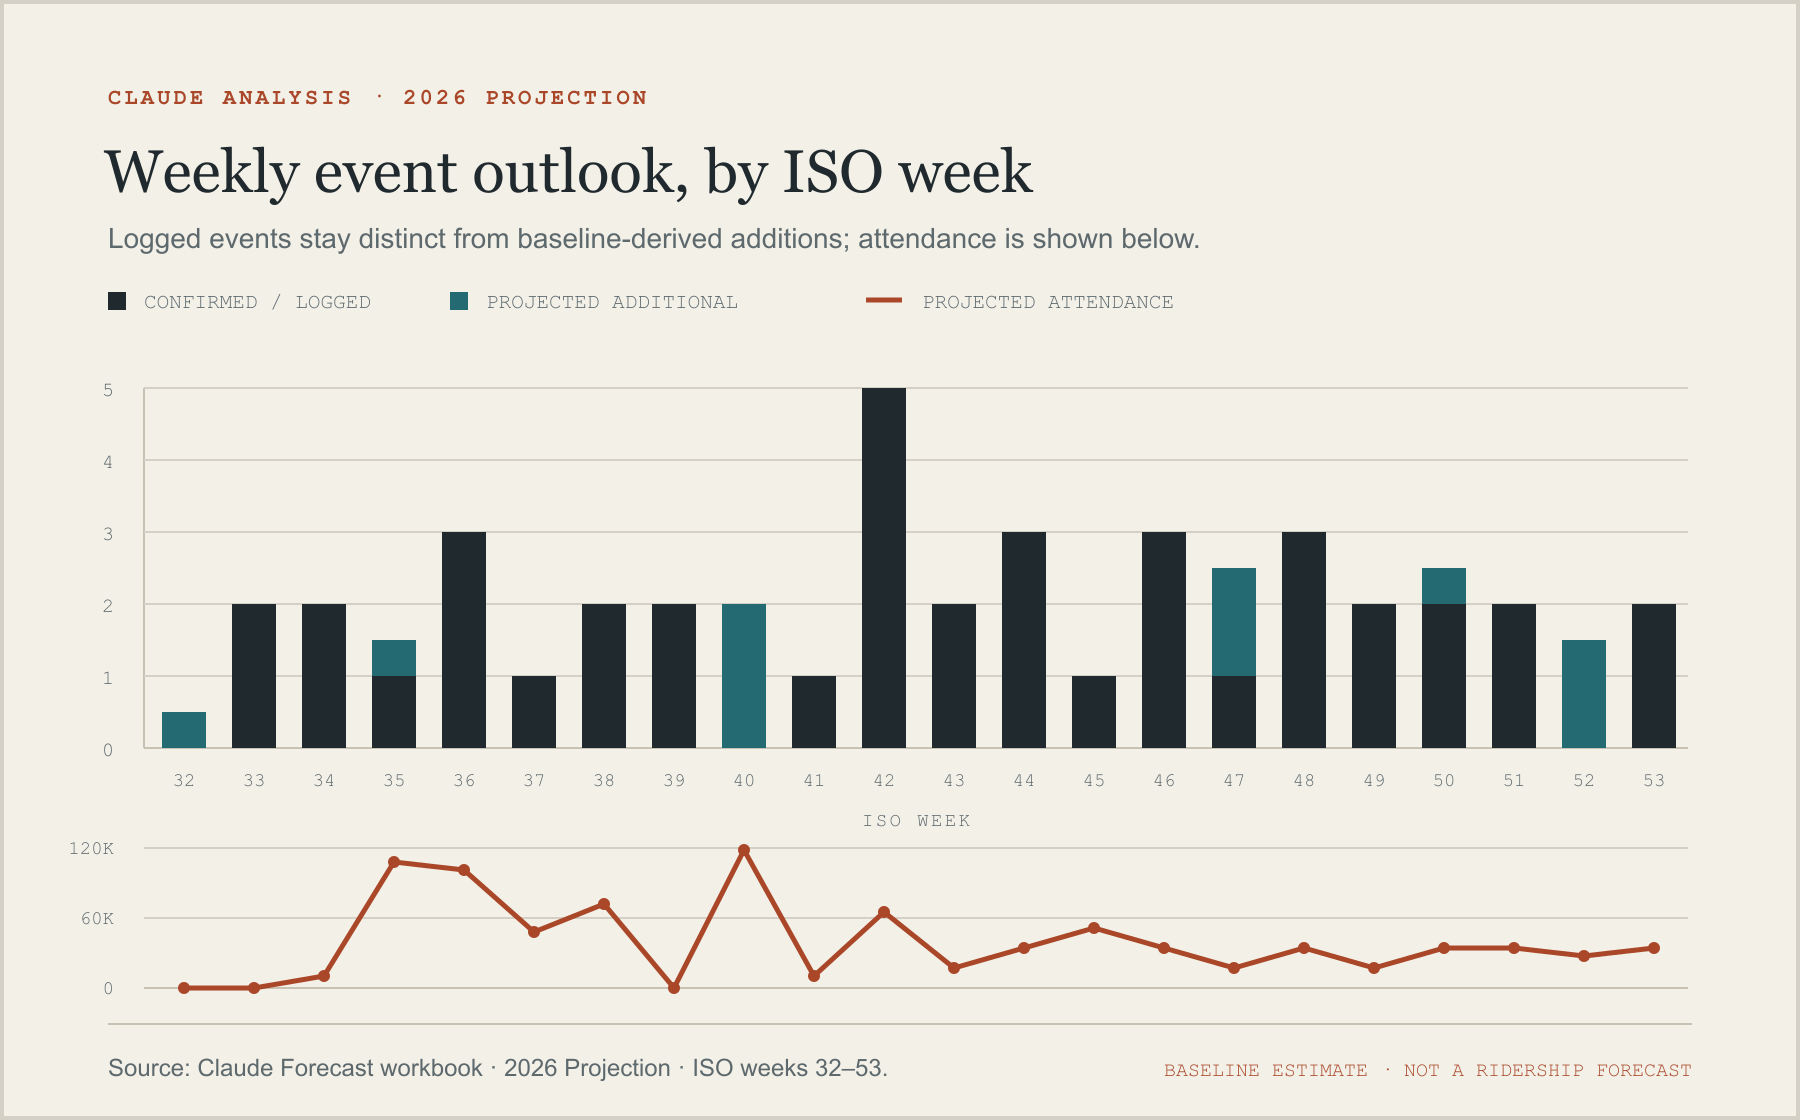
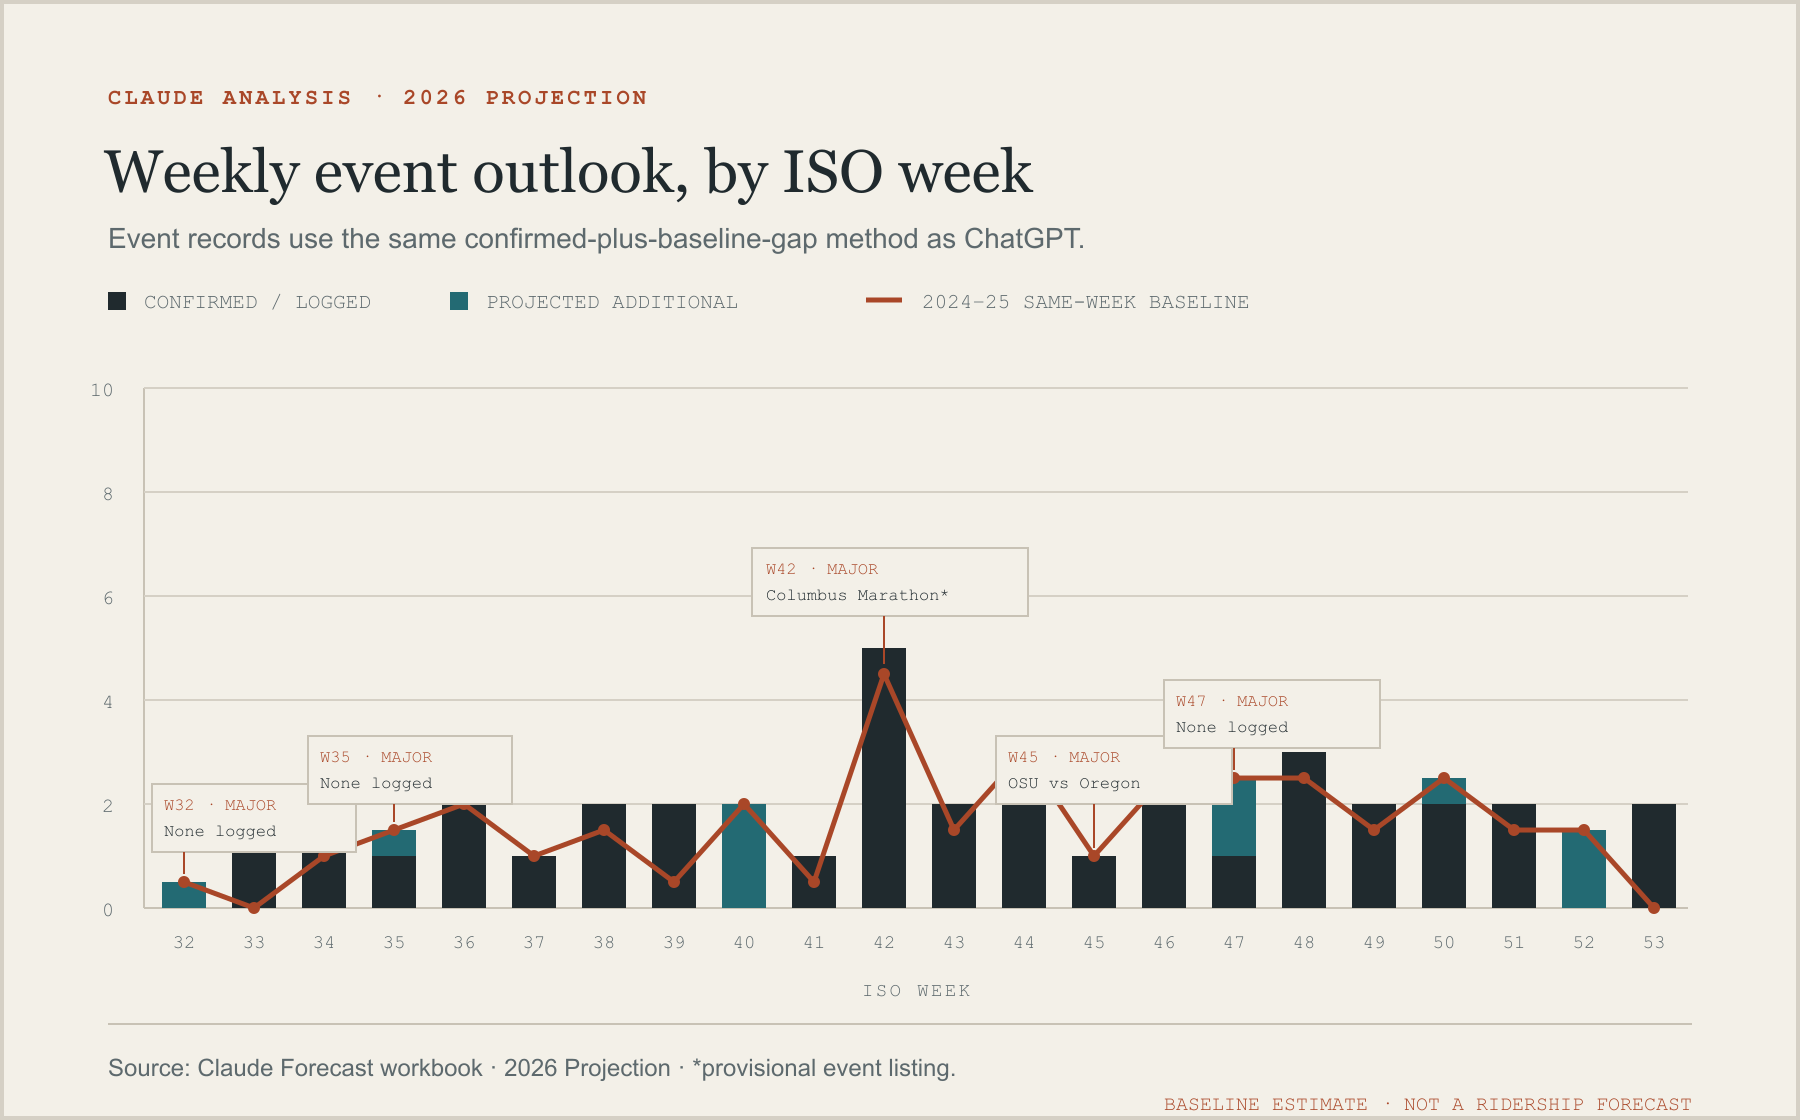
Standardize forecast comparison visuals

diff --git a/index.html b/index.html
@@ -248,7 +248,7 @@
   }
   .forecast-visuals {
     display: grid;
-    grid-template-columns: minmax(0, 1.35fr) minmax(0, 1fr);
+    grid-template-columns: repeat(2, minmax(0, 1fr));
     gap: 18px;
     margin-top: 26px;
   }
@@ -400,20 +400,24 @@
       </article>
     </div>
 
-    <div class="forecast-visuals" aria-label="ChatGPT Analysis visual references">
+    <div class="forecast-visuals" aria-label="Forecast project cards">
       <figure class="forecast-visual">
         <img src="demand-forecast-card.svg" alt="ChatGPT Forecast project card summarizing canonical events, home games, weather-risk days, and the ISO-week join">
-        <figcaption>Project card · <a href="demand-forecast-card.svg">SVG</a> · <a href="demand-forecast-card.png">PNG</a></figcaption>
+        <figcaption>ChatGPT Forecast card · <a href="demand-forecast-card.svg">SVG</a> · <a href="demand-forecast-card.png">PNG</a></figcaption>
       </figure>
+      <figure class="forecast-visual">
+        <img src="claude-demand-forecast-card.svg" alt="Claude Forecast project card summarizing event records, ISO-week series, projected weeks, and the weekly join">
+        <figcaption>Claude Forecast card · <a href="claude-demand-forecast-card.svg">SVG</a> · <a href="claude-demand-forecast-card.png">PNG</a></figcaption>
+      </figure>
+    </div>
+
+    <div class="forecast-visuals" aria-label="Comparable ChatGPT and Claude analysis charts">
       <figure class="forecast-visual">
         <img src="demand-forecast-chart.svg" alt="ChatGPT Analysis chart showing confirmed or logged events, projected additional events, and the 2024 to 2025 same-week baseline for ISO weeks 32 through 53 of 2026">
         <figcaption>ChatGPT Analysis · workbook-derived projection · <a href="demand-forecast-chart.svg">SVG</a> · <a href="demand-forecast-chart.png">PNG</a></figcaption>
       </figure>
-    </div>
-
-    <div class="forecast-visuals" aria-label="Claude Analysis visual reference">
       <figure class="forecast-visual">
-        <img src="claude-demand-forecast-chart.svg" alt="Claude Analysis chart showing confirmed or logged events, projected additional events, and projected attendance for ISO weeks 32 through 53 of 2026">
+        <img src="claude-demand-forecast-chart.svg" alt="Claude Analysis chart showing confirmed or logged events, projected additional events, and the 2024 to 2025 same-week baseline for ISO weeks 32 through 53 of 2026">
         <figcaption>Claude Analysis · workbook-derived projection · <a href="claude-demand-forecast-chart.svg">SVG</a> · <a href="claude-demand-forecast-chart.png">PNG</a></figcaption>
       </figure>
     </div>
